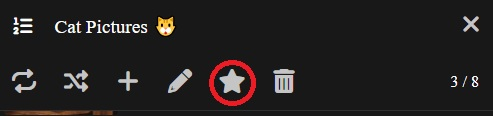
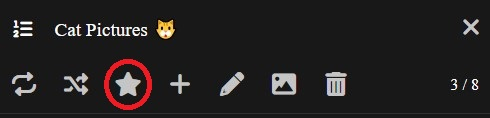
Update albums section

diff --git a/content/en/docs/Tutorials/07-albums.md b/content/en/docs/Tutorials/07-albums.md
@@ -91,6 +91,14 @@ In order to rename the album, click in the `pencil` button in the album options.
 
 ![Screenshot]({{< baseurl >}}images/en/album-rename.jpg)
 
+## Changing thumbnail
+
+In order to change the thumbnail of an album, click the `image` button in the album options.
+
+![Screenshot]({{< baseurl >}}images/en/album-change-thumbnail.jpg)
+
+By default, the album will use as its thumbnail, the thumbnail of the first element.
+
 ## Deleting
 
 In order to delete the album, click in the `trash` button in the album options.
